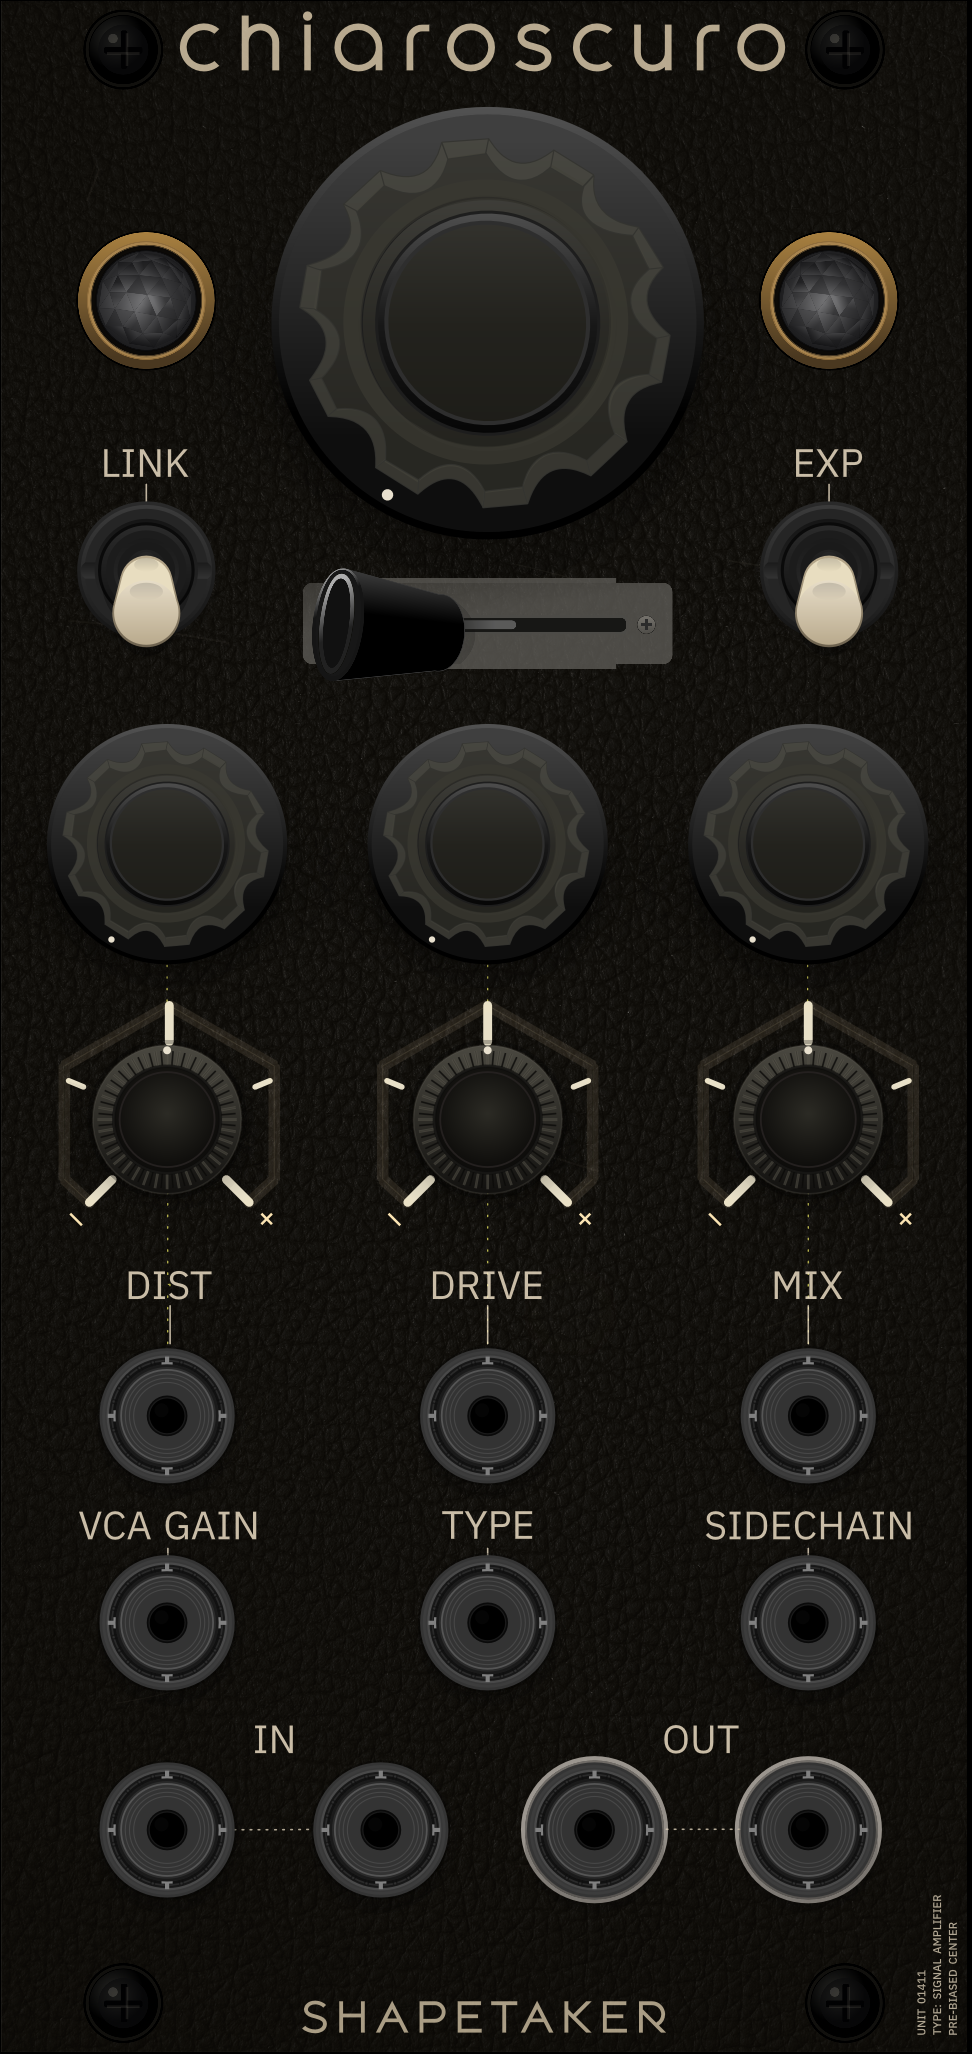
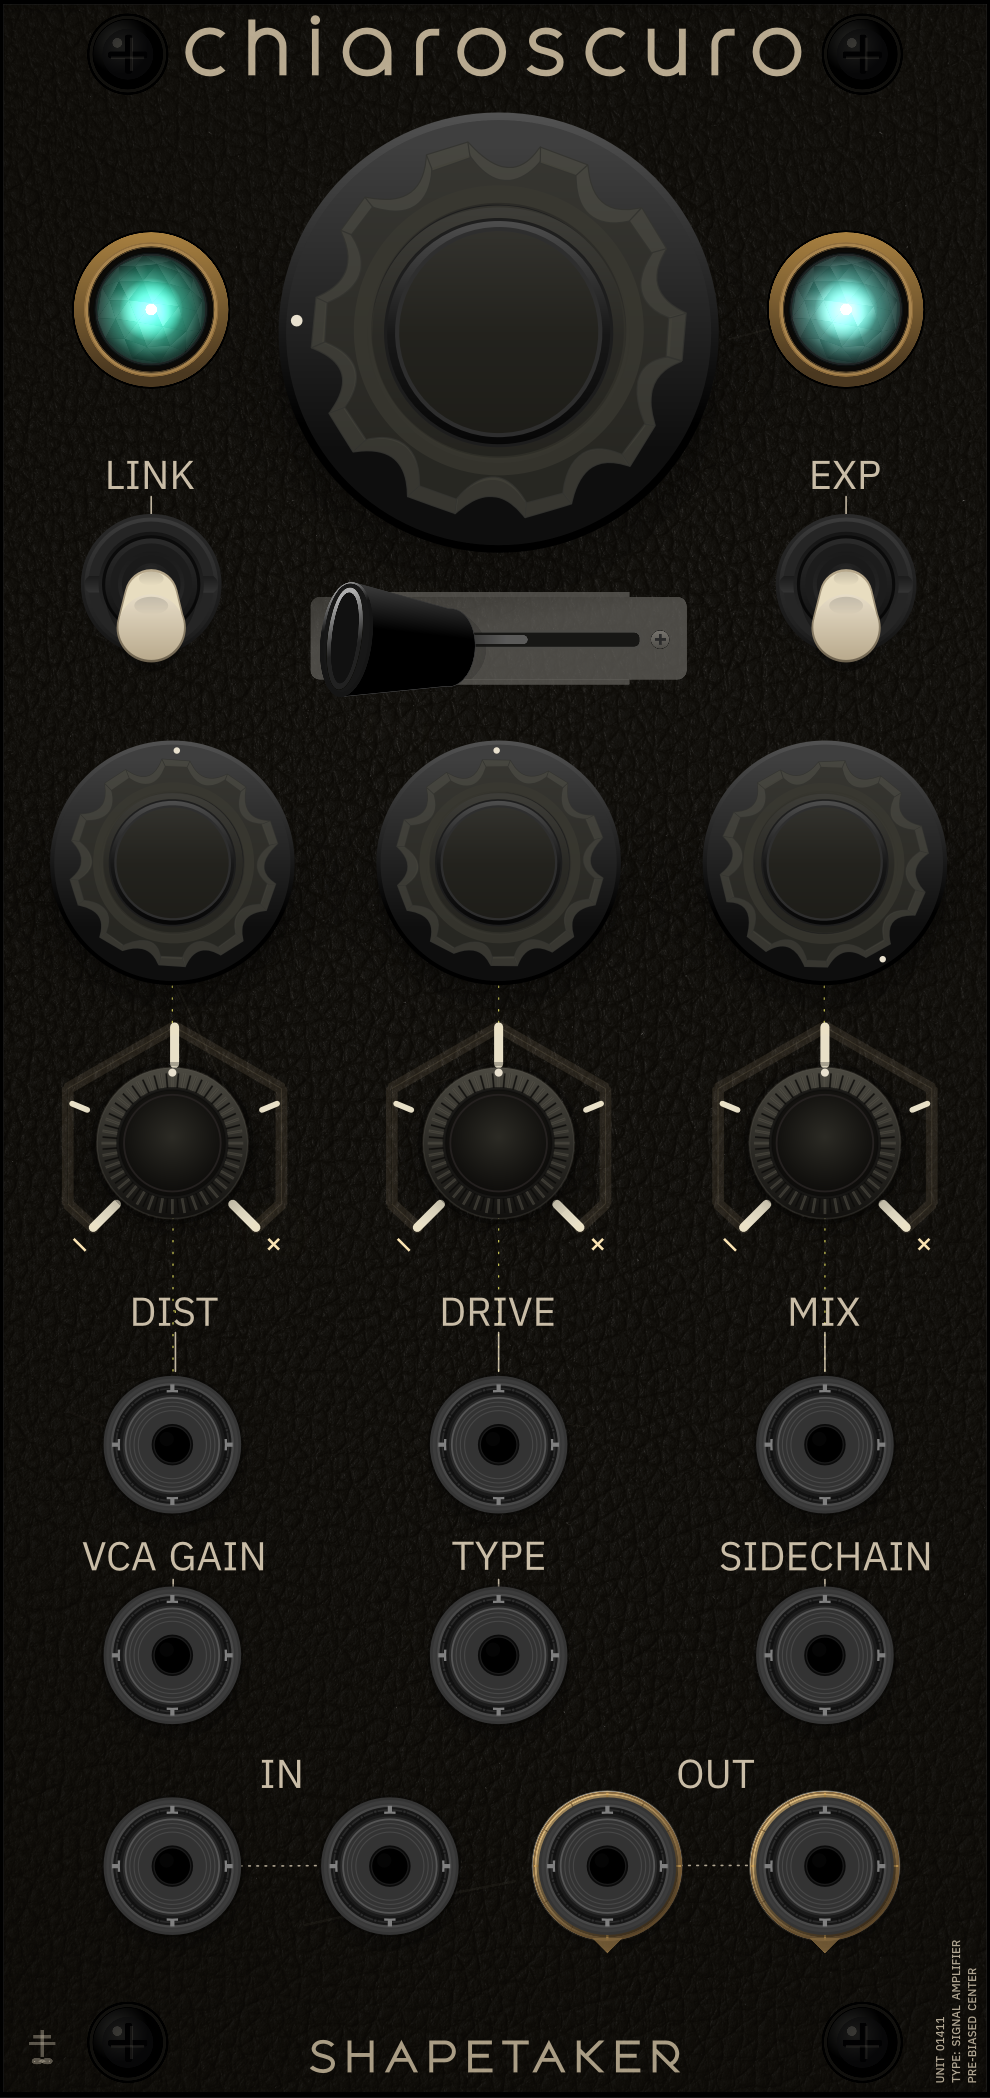
Update portfolio copy and module assets

diff --git a/src/app/page.tsx b/src/app/page.tsx
@@ -31,7 +31,7 @@ export default function Home() {
         <FadeIn direction="up">
           <div className="section-heading">
             <span className="eyebrow">interactive manual</span>
-            <h2>explore the featured module.</h2>
+            <h2>select a control:</h2>
           </div>
         </FadeIn>
         <FadeIn delay={200} direction="up">